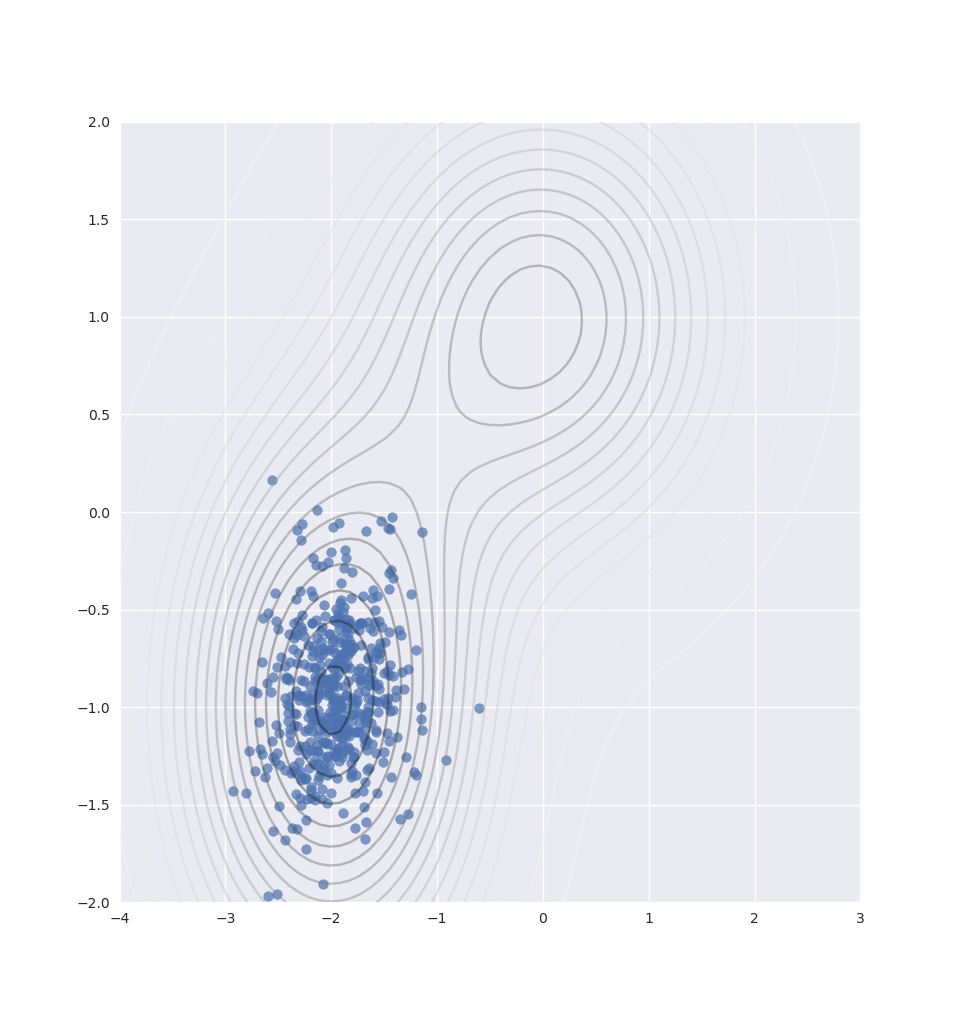
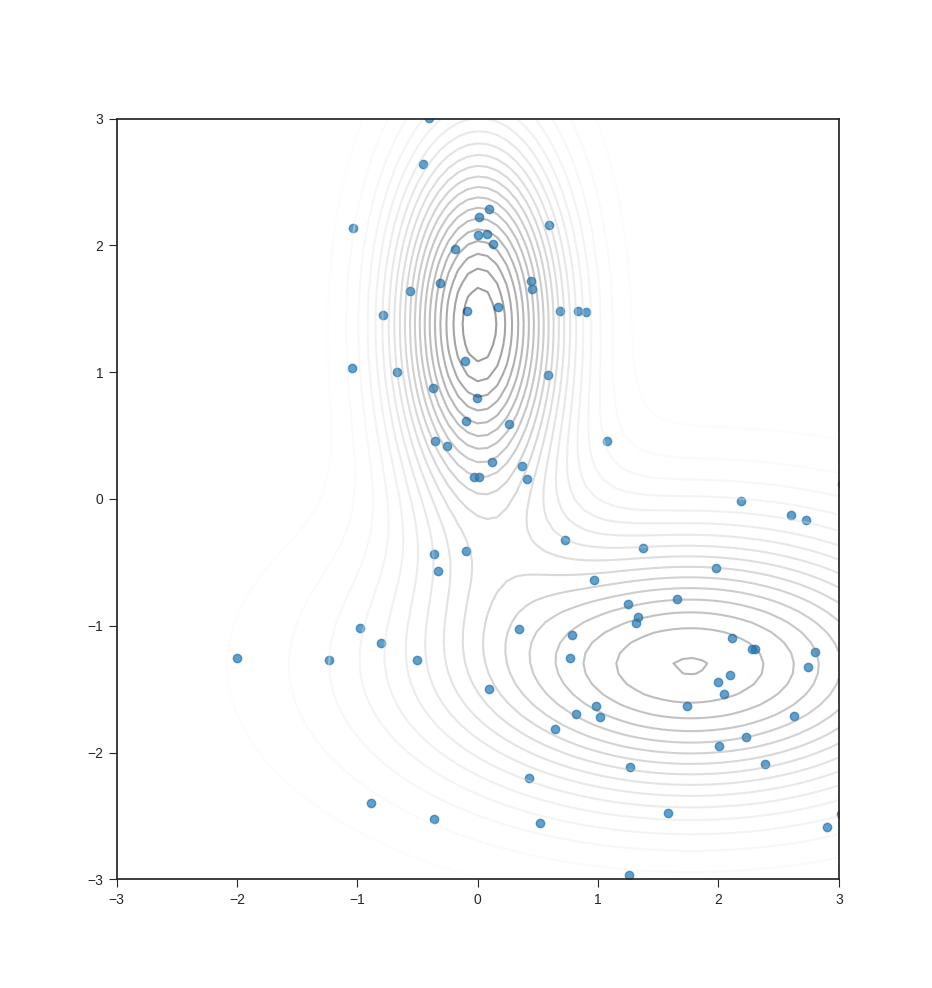
Fixes mode collapse, generates animations

diff --git a/svgd/examples/testbed.py b/svgd/examples/testbed.py
@@ -6,16 +6,25 @@ import matplotlib.pyplot as plt
 import numpy as np
 
 from jax.scipy.stats.multivariate_normal import pdf
+from matplotlib.animation import FuncAnimation
 
-loc1 = jnp.array([-2, -1]).astype(jnp.float32)
-loc2 = jnp.array([0, 1]).astype(jnp.float32)
-scale1 = jnp.diag(jnp.array([1, 1]).astype(jnp.float32))
-scale2 = jnp.diag(jnp.array([1.5, 0.7]).astype(jnp.float32))
+def randloc():
+    return 4 * np.random.uniform() - 2
+
+def randscale():
+    return 3 * np.random.uniform() + 0.2
+
+loc1 = jnp.array([randloc(), randloc()]).astype(jnp.float32)
+loc2 = jnp.array([randloc(), randloc()]).astype(jnp.float32)
+scale1 = jnp.diag(jnp.array([randscale(), randscale()]).astype(jnp.float32))
+scale2 = jnp.diag(jnp.array([randscale(), randscale()]).astype(jnp.float32))
 ratios = np.random.uniform(size=2)
 coeffs = ratios / ratios.sum()
-contour_xs = jnp.linspace(-4, 3, 75)
-contour_ys = jnp.linspace(-2, 2, 75)
+contour_xs = jnp.linspace(-3, 3, 75)
+contour_ys = jnp.linspace(-3, 3, 75)
 density = lambda x: coeffs[0] * pdf(x, loc1, scale1) + coeffs[1] * pdf(x, loc2, scale2)
+print(f"Loc1: {loc1}\nScale1: {scale1}")
+print(f"Loc2: {loc2}\nScale2: {scale2}")
 print(coeffs)
 
 zs = np.zeros((len(contour_xs), len(contour_ys)))
@@ -23,21 +32,26 @@ for (i, x) in enumerate(contour_xs):
     points = jnp.array([[x, y] for y in contour_ys])
     zs[i]= density(points)
 
+def update(model):
+    plt.clf()
+    plt.xlim([-3, 3])
+    plt.ylim([-3, 3])
+    model.update(density)
+    show(model)
+
 def main():
-    plt.style.use('seaborn')
+    plt.style.use('seaborn-ticks')
 
-    model = svgd.svgd(501, lr=0.03)
+    model = svgd.svgd(101, lr=0.5)
 
-    while True:
-        show(model)
-        n_updates = int(input("How many updates should be done? "))
-        for _ in range(n_updates):
-            model.update(density)
+    fig = plt.figure()
+
+    ani = FuncAnimation(fig, lambda i: update(model), interval=300)
+    plt.show()
 
 def show(model):
     plt.contour(contour_xs, contour_ys, zs.T, levels=20, alpha=0.4)
     plt.scatter(model.particles[:, 0], model.particles[:, 1], alpha=0.7)
-    plt.show()
 
 if __name__ == "__main__":
     main()

diff --git a/svgd/svgd.py b/svgd/svgd.py
@@ -25,7 +25,7 @@ def gaussian_init_fun(key, loc: Particle, scale: float, n_atoms: int) -> List[Pa
         keys.append(sub)
     return jnp.array([jax.random.multivariate_normal(k, loc, scale) for k in keys])
 
-default_rbf_kernel = partial(rbf, 50)
+default_rbf_kernel = partial(rbf, 2)
 default_gaussian_init_fun = partial(gaussian_init_fun,
                                     jax.random.PRNGKey(0),
                                     [0, 0],
@@ -45,7 +45,6 @@ class svgd():
 
     def update(self, target: Callable[[Particle], Probability]):
         grads = svgd_grads(self.particles, self.kernel, target)
-        print(f"Grad norm: {jnp.linalg.norm(grads)}")
         self.particles = self.particles + self.lr * grads
 
 # @jax.jit
@@ -59,5 +58,5 @@ def svgd_grads(particles: List[Particle],
     kernel_matrix = kernel_matrix_fn(particles, particles)
     # [N, d]
     kernel_grads = jax.vmap(jax.grad(lambda x, y: jax.vmap(kernel, in_axes=(None, 0))(x, y).sum()), in_axes=(0, None))(particles, particles)
-    grad_matrix = (kernel_matrix @ logprobgrads) + kernel_grads
+    grad_matrix = (kernel_matrix @ logprobgrads) - kernel_grads
     return grad_matrix / len(particles)
